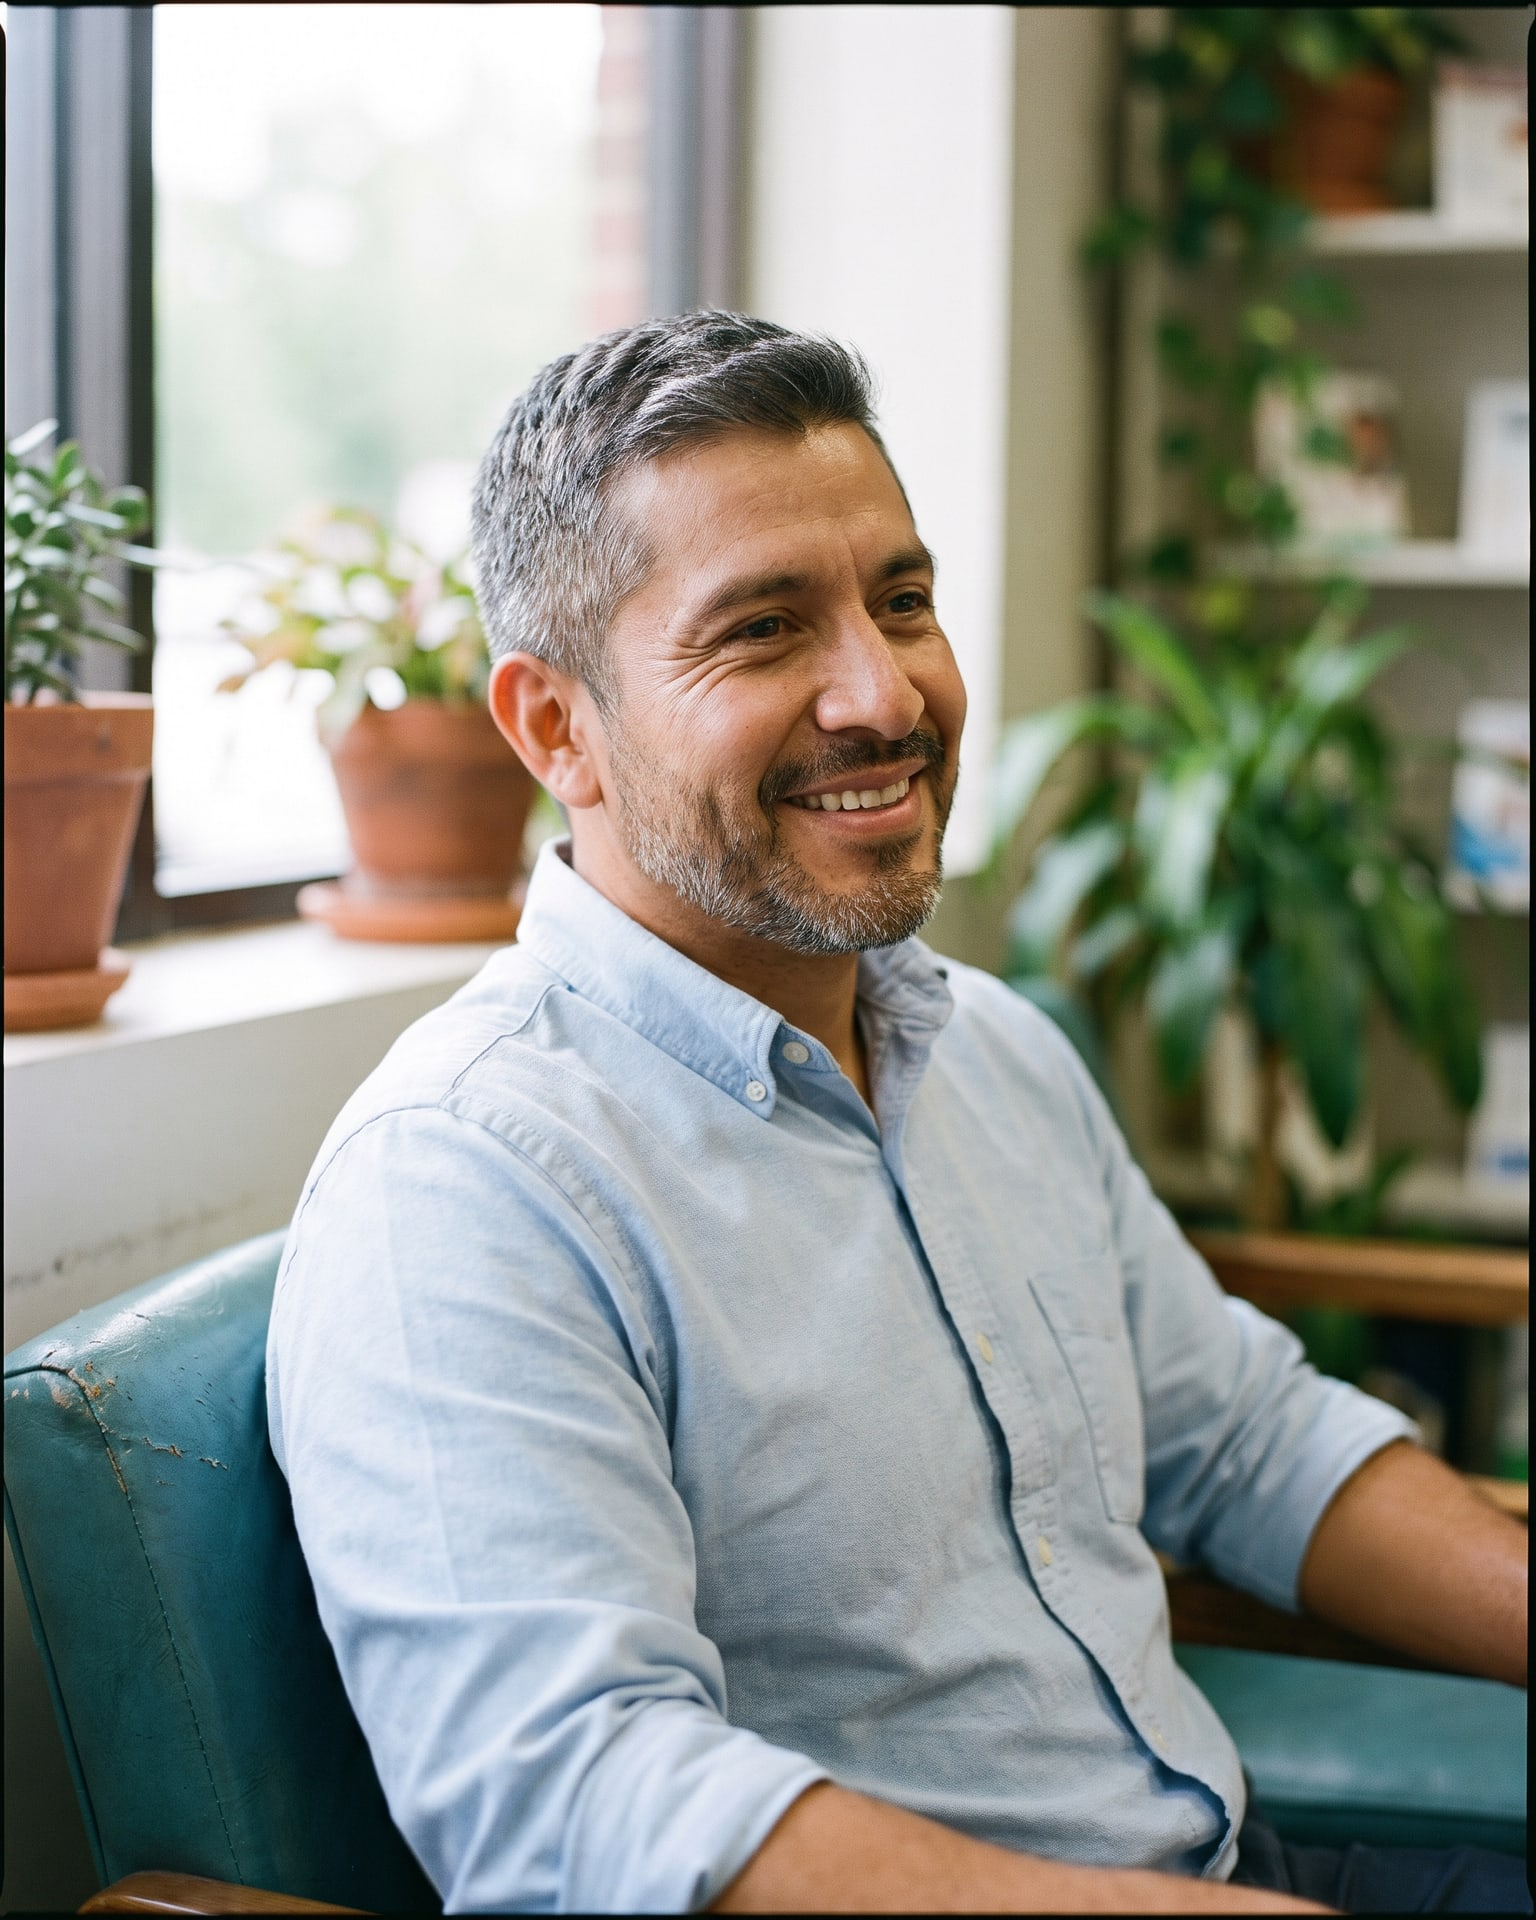
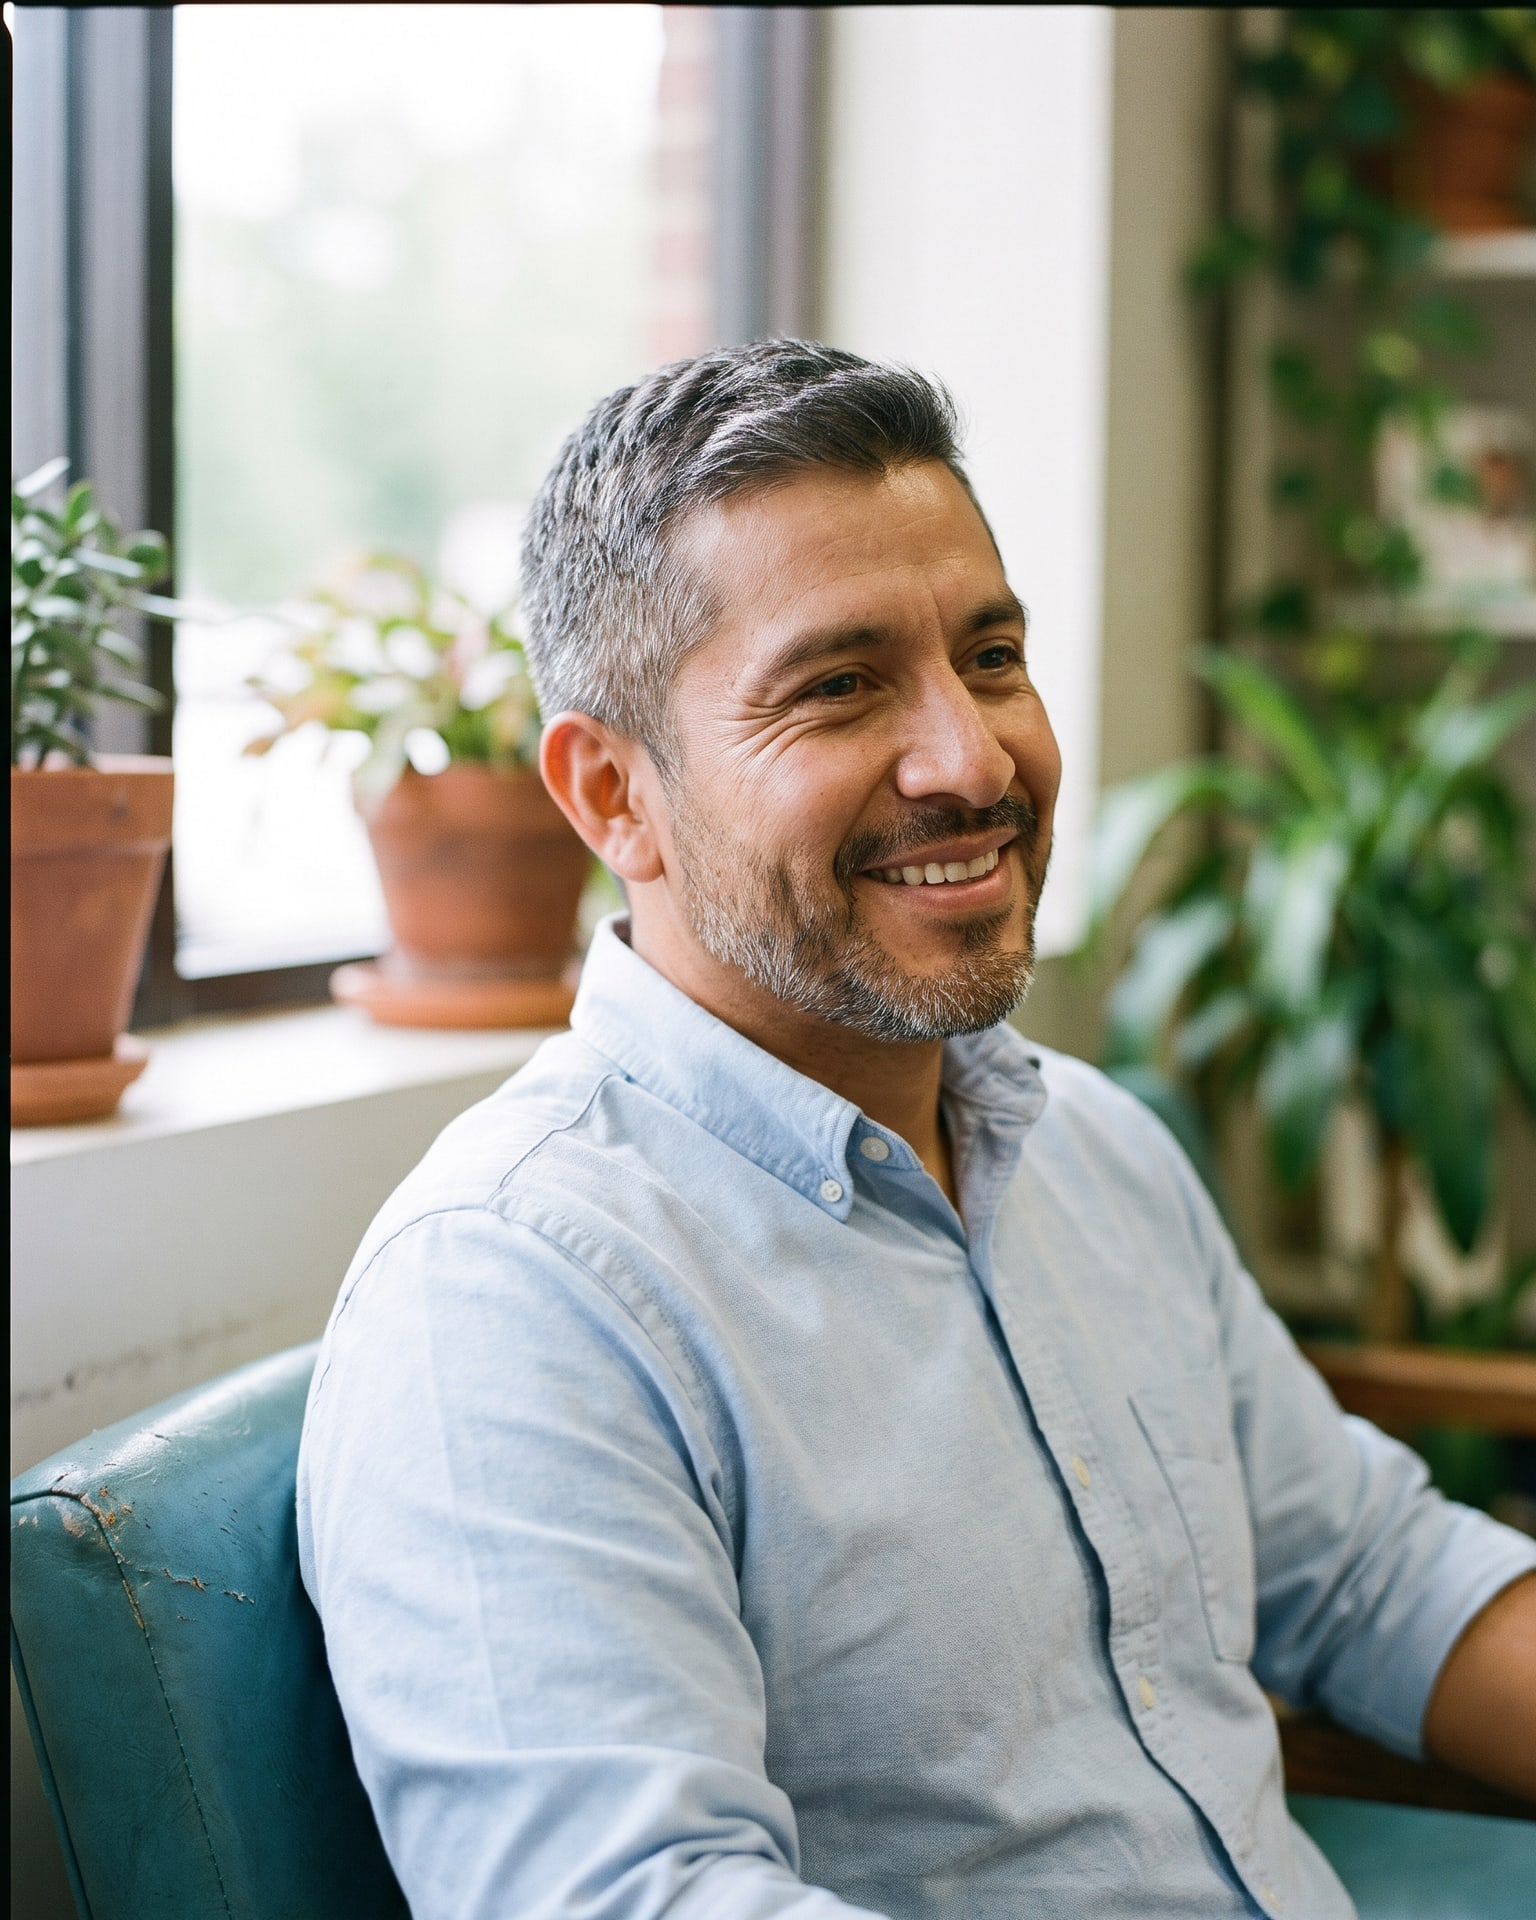
Images: content-hashed filenames for generated images and OG files so replaced images bust the immutable cache; crowns-page hero recropped to center the face

diff --git a/src/lib/images.ts b/src/lib/images.ts
@@ -1,13 +1,14 @@
 import manifest from "./images.gen.json";
 
-type Entry = { width?: number; height?: number; widths?: number[]; svg?: boolean };
+type Entry = { width?: number; height?: number; widths?: number[]; svg?: boolean; hash?: string };
 const entries = manifest as Record<string, Entry>;
 
 export function imageInfo(file: string) {
   const entry = entries[file];
   if (!entry) throw new Error(`Unknown image "${file}". Add it to src/assets and run npm run images.`);
-  const name = file.replace(/\.[^.]+$/, "");
-  if (entry.svg) return { svg: true as const, src: `/images/${file}` };
+  // Output names carry a content hash (see scripts/build-images.mjs) so replaced images bust the cache.
+  const name = `${file.replace(/\.[^.]+$/, "")}.${entry.hash}`;
+  if (entry.svg) return { svg: true as const, src: `/images/${name}.svg` };
   const widths = entry.widths!;
   const srcSet = (fmt: "avif" | "webp") => widths.map((w) => `/images/${name}-${w}.${fmt} ${w}w`).join(", ");
   return {
@@ -20,4 +21,7 @@ export function imageInfo(file: string) {
   };
 }
 
-export const ogImagePath = (file: string) => `/og/${file.replace(/\.[^.]+$/, "")}.jpg`;
+export const ogImagePath = (file: string) => {
+  const hash = entries[file]?.hash;
+  return `/og/${file.replace(/\.[^.]+$/, "")}${hash ? `.${hash}` : ""}.jpg`;
+};
